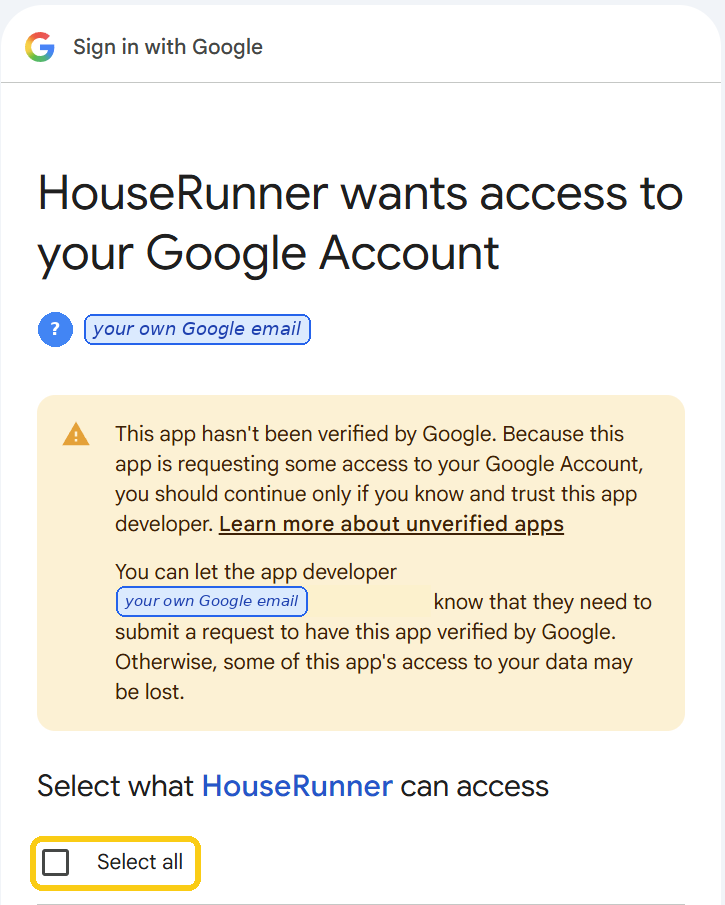
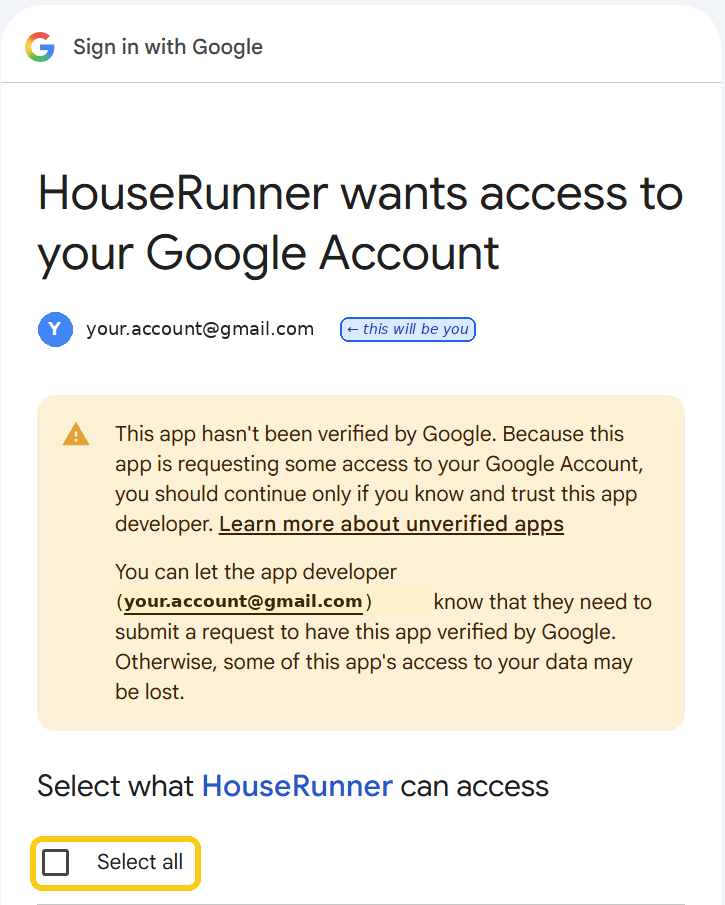
2026.11.353: realistic stand-in account in the pictures
Claude-Session: https://claude.ai/code/session_01R2kV4GW3UVFR51NzUKtdLQ

Changed region(s): [[0.0607, 0.3403, 0.6676, 0.4022], [0.1517, 0.6497, 0.5159, 0.6807]]

diff --git a/setup/guide/auto.js b/setup/guide/auto.js
@@ -92,11 +92,11 @@
         else if (k === 0) body = '<div class="card big"><h3>Sign in with the Google account for your family dashboard</h3><p>Google asks you to let the <b>HouseRunner Installer</b> make <b>one new Sheet</b> in your Drive and <b>make and publish its script</b>. It can’t see your other files.' +
             (S.email ? ' <span class="mute">Last time you used ' + esc(S.email) + ' – use the same account to carry on with the same Sheet.</span>' : '') + '</p>' +
             '<ol class="mute"><li>A Google window opens, <b>“Choose an account”</b>: click your account. <span class="small">(Not signed in to Google on this computer yet? It asks for your Google email and password first. Account not listed? Click <b>Use another account</b>.)</span></li><li>Google says <b>“Google hasn’t verified this app”</b> – that’s expected, HouseRunner is new. Click <b>Continue</b> (the blue word on the left – not “Back to safety”). <span class="small">(If it shows <b>Advanced</b> instead, click that, then <b>Go to HouseRunner Installer (unsafe)</b>.)</span></li><li>Google says <b>“Sign in to houserunner.app”</b> with your email: click <b>Continue</b>.</li><li>Tick <b>Select all</b>, scroll down and click <b>Continue</b>.</li></ol>' +
-            '<div class="hri-pics"><figure><img src="../../shared/brand/steps/h-choose.png?v=350" alt=""><figcaption>Choose an account: click yours</figcaption></figure><figure><img src="../../shared/brand/steps/h-testing.png?v=345" alt=""><figcaption>Not verified yet: Continue, on the left</figcaption></figure><figure><img src="../../shared/brand/steps/h-signinto.png?v=347" alt=""><figcaption>Sign in to houserunner.app: Continue</figcaption></figure><figure><img src="../../shared/brand/steps/h-consent-inst2.png?v=352" alt=""><figcaption>Tick Select all, scroll down, click Continue</figcaption></figure></div>' + '<p>' + '<button class="btn ghost sm" data-showme type="button">🎬 Show me</button> <span class="mute small">– a small window with a short clip of each click</span>' + '</p>' +
+            '<div class="hri-pics"><figure><img src="../../shared/brand/steps/h-choose.png?v=353" alt=""><figcaption>Choose an account: click yours</figcaption></figure><figure><img src="../../shared/brand/steps/h-testing.png?v=353" alt=""><figcaption>Not verified yet: Continue, on the left</figcaption></figure><figure><img src="../../shared/brand/steps/h-signinto.png?v=353" alt=""><figcaption>Sign in to houserunner.app: Continue</figcaption></figure><figure><img src="../../shared/brand/steps/h-consent-inst2.png?v=353" alt=""><figcaption>Tick Select all, scroll down, click Continue</figcaption></figure></div>' + '<p>' + '<button class="btn ghost sm" data-showme type="button">🎬 Show me</button> <span class="mute small">– a small window with a short clip of each click</span>' + '</p>' +
             '<div class="row"><button class="btn" id="go">' + (S.sheetId ? 'Sign in and carry on' : 'Sign in with Google') + '</button></div></div>';
         else if (k === 4) body = '<div class="card big"><h3>One Google approval for HouseRunner App</h3><p>Your Sheet is made and published. Now approve what <b>HouseRunner App</b> does in your account – your calendar, sending your setup emails and so on (why each is needed is below). This tab goes to Google, then comes back here.</p>' +
             '<ol class="mute"><li>Google says <b>HouseRunner App (Unverified) needs your permission</b>: click <b>REVIEW PERMISSIONS</b>.</li><li>A Google window opens: choose <b>your</b> account.</li><li>Google warns it hasn’t been verified – expected: it’s your own private copy. If it shows <b>“Google hasn’t verified this app”</b>, click <b>Continue</b> on the left. <span class="small">(Or: <b>Advanced</b>, then <b>Go to HouseRunner App (unsafe)</b>.)</span></li><li>Tick <b>Select all</b>, scroll down, click <b>Continue</b>.</li><li>“Waiting for authorization…” for a few seconds – <b>stuck?</b> Press <b>F5</b>.</li><li>Google shows <b>✅ Approved</b>: click <b>▶ Back to HouseRunner setup</b>.</li></ol>' +
-            '<div class="hri-pics"><figure><img src="../../shared/brand/steps/h-review.png?v=344" alt=""><figcaption>REVIEW PERMISSIONS</figcaption></figure><figure><img src="../../shared/brand/steps/h-consent.png?v=344" alt=""><figcaption>Select all, then Continue</figcaption></figure></div>' + '<p>' + '<button class="btn ghost sm" data-showme type="button">🎬 Show me</button> <span class="mute small">– a small window with a short clip of each click</span>' + '</p>' +
+            '<div class="hri-pics"><figure><img src="../../shared/brand/steps/h-review.png?v=353" alt=""><figcaption>REVIEW PERMISSIONS</figcaption></figure><figure><img src="../../shared/brand/steps/h-consent.png?v=353" alt=""><figcaption>Select all, then Continue</figcaption></figure></div>' + '<p>' + '<button class="btn ghost sm" data-showme type="button">🎬 Show me</button> <span class="mute small">– a small window with a short clip of each click</span>' + '</p>' +
             '<div class="row"><button class="btn" id="approve">Approve HouseRunner App</button><span class="mute" id="watch"></span></div></div>';
         else if (k === 5 && !S.answered) body = S.manual ? manualCard() : finishCard();
         else if (k === 5) body = '<div class="note ok" style="font-size:18px">✅ <b>All done with Google.</b> Your Sheet is made, published and approved – HouseRunner checked it answers. Carrying on…</div>';

diff --git a/index.html b/index.html
@@ -24,11 +24,11 @@
         window.FD_DESK = true; window.FD_PHONE = !!phone;
     })();
     </script>
-    <link rel="stylesheet" href="shared/base.css?v=202611352">
-    <link rel="stylesheet" href="admin/admin.css?v=202611352">
-    <link rel="stylesheet" href="setup/desk.css?v=202611352">
-    <link rel="stylesheet" href="setup/editor.css?v=202611352">
-    <link rel="stylesheet" href="admin/phone.css?v=202611352">
+    <link rel="stylesheet" href="shared/base.css?v=202611353">
+    <link rel="stylesheet" href="admin/admin.css?v=202611353">
+    <link rel="stylesheet" href="setup/desk.css?v=202611353">
+    <link rel="stylesheet" href="setup/editor.css?v=202611353">
+    <link rel="stylesheet" href="admin/phone.css?v=202611353">
     <style>
 #landing { min-height: 100vh; }
 #landing .ld-wrap { max-width: 1100px; margin: 0 auto; padding: 30px 18px 50px; }
@@ -206,20 +206,20 @@
     </div></div>
     <!-- Connected: houserunner.app (computer) or Family Admin (phone) – the same app. -->
     <div id="app"></div>
-    <script src="shared/storecheck.js?v=202611352"></script>
-    <script src="shared/fd.js?v=202611352"></script>
-    <script src="dashboard/scripts/platform.js?v=202611352"></script>
-    <script src="shared/pair.js?v=202611352"></script>
-    <script src="shared/qrcode.js?v=202611352"></script>
-    <script src="shared/privacy.js?v=202611352"></script>
-    <script src="shared/countries.js?v=202611352"></script>
-    <script src="setup/config.js?v=202611352"></script>
-    <script src="help/topics.js?v=202611352"></script>
-    <script src="setup/editor.js?v=202611352"></script>
-    <script src="setup/calsetup.js?v=202611352"></script>
-    <script src="shared/icons.js?v=202611352"></script>
+    <script src="shared/storecheck.js?v=202611353"></script>
+    <script src="shared/fd.js?v=202611353"></script>
+    <script src="dashboard/scripts/platform.js?v=202611353"></script>
+    <script src="shared/pair.js?v=202611353"></script>
+    <script src="shared/qrcode.js?v=202611353"></script>
+    <script src="shared/privacy.js?v=202611353"></script>
+    <script src="shared/countries.js?v=202611353"></script>
+    <script src="setup/config.js?v=202611353"></script>
+    <script src="help/topics.js?v=202611353"></script>
+    <script src="setup/editor.js?v=202611353"></script>
+    <script src="setup/calsetup.js?v=202611353"></script>
+    <script src="shared/icons.js?v=202611353"></script>
     <!-- A phone gets Family Admin, written for the phone; a computer houserunner.app. -->
-    <script>document.write('<script src="admin/' + (window.FD_PHONE ? 'phone' : 'app') + '.js?v=202611352"><\/script>');</script>
+    <script>document.write('<script src="admin/' + (window.FD_PHONE ? 'phone' : 'app') + '.js?v=202611353"><\/script>');</script>
 <script>
  (function () {
    'use strict';

diff --git a/setup/guide/index.html b/setup/guide/index.html
@@ -6,8 +6,8 @@
     <title>HouseRunner setup</title>
     <meta name="theme-color" content="#0c0e12">
     <link rel="icon" href="../../shared/brand/icon-192.png"><link rel="apple-touch-icon" href="../../shared/brand/apple-touch-icon.png">
-    <link rel="stylesheet" href="../editor.css?v=202611352">
-    <link rel="stylesheet" href="setup.css?v=202611352">
+    <link rel="stylesheet" href="../editor.css?v=202611353">
+    <link rel="stylesheet" href="setup.css?v=202611353">
 </head>
 <body>
     <header class="cfg-top"><a class="cfg-title hr-title" href="../../"><img src="../../shared/brand/mark.svg" alt="" class="hr-mini"><span>House<span class="hr-acc">Runner</span></span></a><a class="cfg-dash" href="../../dashboard/" target="_blank" rel="noopener">▶ Dashboard</a><a class="cfg-help" href="../../help/" target="_blank" rel="noopener">❓ Help</a></header>
@@ -29,11 +29,11 @@
     <script src="../../shared/countries.js"></script>
     <script src="../../shared/pair.js"></script>
     <script src="../../shared/qrcode.js"></script>
-    <script src="../calsetup.js?v=202611352"></script>
-    <script src="../../shared/storecheck.js?v=202611352"></script>
+    <script src="../calsetup.js?v=202611353"></script>
+    <script src="../../shared/storecheck.js?v=202611353"></script>
     <script src="https://accounts.google.com/gsi/client" async defer></script>
-    <script src="auto.js?v=202611352"></script>
-    <script src="float.js?v=202611352"></script>
-    <script src="setup.js?v=202611352"></script>
+    <script src="auto.js?v=202611353"></script>
+    <script src="float.js?v=202611353"></script>
+    <script src="setup.js?v=202611353"></script>
 </body>
 </html>

diff --git a/sw.js b/sw.js
@@ -1,6 +1,6 @@
 /* Keeps houserunner.app (the Configurator / Family Admin) available offline. Family data always comes live from Google.
  * The screen, the Family Calendar app and the licence pages look after themselves, so they're left alone here. */
-const CACHE = 'root-v207';
+const CACHE = 'root-v208';
 const FILES = ["./", "index.html", "manifest.webmanifest", "admin/app.js", "admin/phone.js", "admin/phone.css", "admin/admin.css", "admin/icons/icon-192.png", "setup/desk.css", "setup/editor.css", "setup/editor.js", "setup/calsetup.js", "setup/config.js",
   "help/topics.js", "shared/fd.js", "shared/head.js", "shared/storecheck.js", "shared/move.js", "shared/busy.js", "shared/base.css", "shared/brand/mark.svg", "shared/privacy.js", "shared/countries.js", "shared/icons.js", "shared/pair.js", "shared/qrcode.js"];
 const OWN = /^\/(screen|dashboard|calendar|licencing|windows|downloads|Scripts)\//;

diff --git a/admin/sw.js b/admin/sw.js
@@ -1,5 +1,5 @@
 /* Keeps the app itself available offline. Calendar and points data always come live from Google. */
-const CACHE = 'admin-v356';
+const CACHE = 'admin-v357';
 const FILES = ["./", "index.html", "app.js", "admin.css", "manifest.webmanifest", "icons/icon-192.png", "../shared/fd.js", "../shared/storecheck.js", "../shared/move.js", "../shared/base.css", "../shared/brand/symbol.svg", "../shared/privacy.js", "../shared/countries.js", "../shared/pair.js", "../shared/qrcode.js"];
 self.addEventListener('install', e => { e.waitUntil(caches.open(CACHE).then(c => c.addAll(FILES)).then(() => self.skipWaiting())); });
 self.addEventListener('activate', e => { e.waitUntil(caches.keys().then(ks => Promise.all(ks.filter(k => k.startsWith('admin-') && k !== CACHE).map(k => caches.delete(k)))).then(() => self.clients.claim())); });

diff --git a/calendar/sw.js b/calendar/sw.js
@@ -1,5 +1,5 @@
 /* Keeps the app itself available offline. Calendar and points data always come live from Google. */
-const CACHE = 'calendar-v344';
+const CACHE = 'calendar-v345';
 const FILES = ["./", "index.html", "app.js", "calendar.css", "manifest.webmanifest", "icons/icon-192.png", "../shared/fd.js", "../shared/storecheck.js", "../shared/move.js", "../shared/base.css", "../shared/brand/symbol.svg", "../shared/pair.js", "../shared/qrcode.js"];
 self.addEventListener('install', e => { e.waitUntil(caches.open(CACHE).then(c => c.addAll(FILES)).then(() => self.skipWaiting())); });
 self.addEventListener('activate', e => { e.waitUntil(caches.keys().then(ks => Promise.all(ks.filter(k => k.startsWith('calendar-') && k !== CACHE).map(k => caches.delete(k)))).then(() => self.clients.claim())); });

diff --git a/setup/guide/helper.html b/setup/guide/helper.html
@@ -32,7 +32,7 @@ button:disabled{opacity:.4;cursor:default}
  * and "Done – next" moves it on where it can't tell (the clicks in Google's own windows).
  * Where a picture shows Google's screens, the account shown is marked "your own Google email": the person sees theirs. */
 (function () {
-    var V = '../../shared/brand/steps/', REV = '352';
+    var V = '../../shared/brand/steps/', REV = '353';
     var SETUP = '🏠 In the <b>HouseRunner setup</b> tab', GWIN = '🔐 In <b>Google’s window</b>', GTAB = '🔐 <b>Google</b>, in the HouseRunner setup tab';
     // [stage, where, what to click, help, media (one, or several shown in turn)]
     var STEPS = [

diff --git a/shared/fd.js b/shared/fd.js
@@ -191,7 +191,7 @@
         clearConfig: function () { cfg = {}; try { localStorage.removeItem(KEY); } catch (e) { /* ignore */ } },
         parseSetup: parseSetup,
 
-        VERSION: '2026.11.352',     // the phone apps' version (same number as the screen's)
+        VERSION: '2026.11.353',     // the phone apps' version (same number as the screen's)
         get: function (action, params, timeout) {
             var q = 'action=' + encodeURIComponent(action) + '&code=' + encodeURIComponent(cfg.code) + '&t=' + Date.now();
             Object.keys(params || {}).forEach(function (k) { q += '&' + k + '=' + encodeURIComponent(params[k]); });

diff --git a/dashboard/scripts/notices.js b/dashboard/scripts/notices.js
@@ -6,7 +6,7 @@
  */
 (function () {
     'use strict';
-    var APP_VERSION = '2026.11.352';
+    var APP_VERSION = '2026.11.353';
     var SNOOZE_KEY = 'familyDashboard.updateSnooze', SCRIPT_KEY = 'familyDashboard.scriptNag';
     var latest = null, lastLayout = null, privacyOpen = false, lastTouch = Date.now(), updating = false;
     var IDLE_MS = 3 * 60000;
